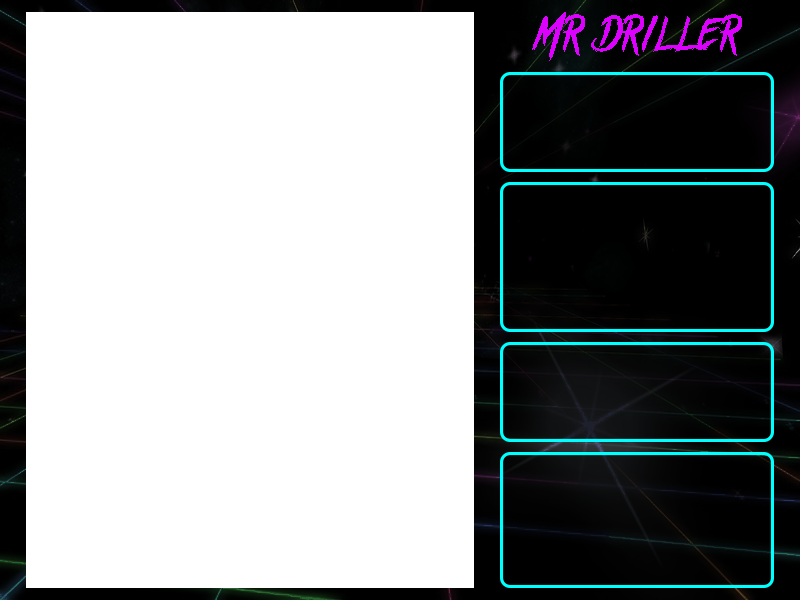
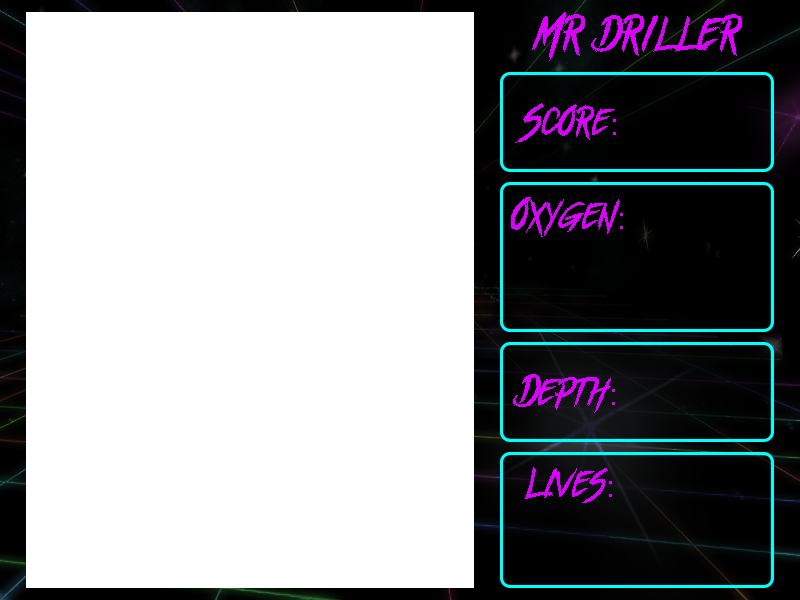
improved ui

diff --git a/Mr. Driller/main.py b/Mr. Driller/main.py
@@ -118,21 +118,16 @@ def game(x, y):
 
         nbFrame=nbFrame+1
 
-
-        #UI
-        score_text = FontUi1.render(("Score :"), 1, (255, 255, 0));
-
         if(player.scoreAcc()<1000):
-            score_display = FontUi2.render(str(player.scoreAcc()), 1, (255, 255, 0));
+            score_display = FontUi2.render(str(player.scoreAcc()), 1, (220, 0, 255));
         elif (player.scoreAcc() < 100000):
-            score_display = FontUi2.render(str((player.scoreAcc())/1000)+"k", 1, (255, 255, 0));
+            score_display = FontUi2.render(str((player.scoreAcc())/1000)+"k", 1, (220, 0, 255));
         else:
-            score_display = FontUi2.render(str(int((player.scoreAcc())/1000)) + " k", 1, (255, 255, 0));
+            score_display = FontUi2.render(str(int((player.scoreAcc())/1000)) + "k", 1, (220, 0, 255));
 
-        Oxygen_display = FontUi2.render(str(player.oxyAcc()), 1, (255, 255, 0));
+        Oxygen_display = FontUi2.render(str(player.oxyAcc()), 1, (220, 0, 255));
 
         surface.blit(Ui_bg, (0, 0))
-        surface.blit(score_text, (500, 100))
         surface.blit(score_display, (675, 100))
         surface.blit(Oxygen_display, (570, 200))
 
